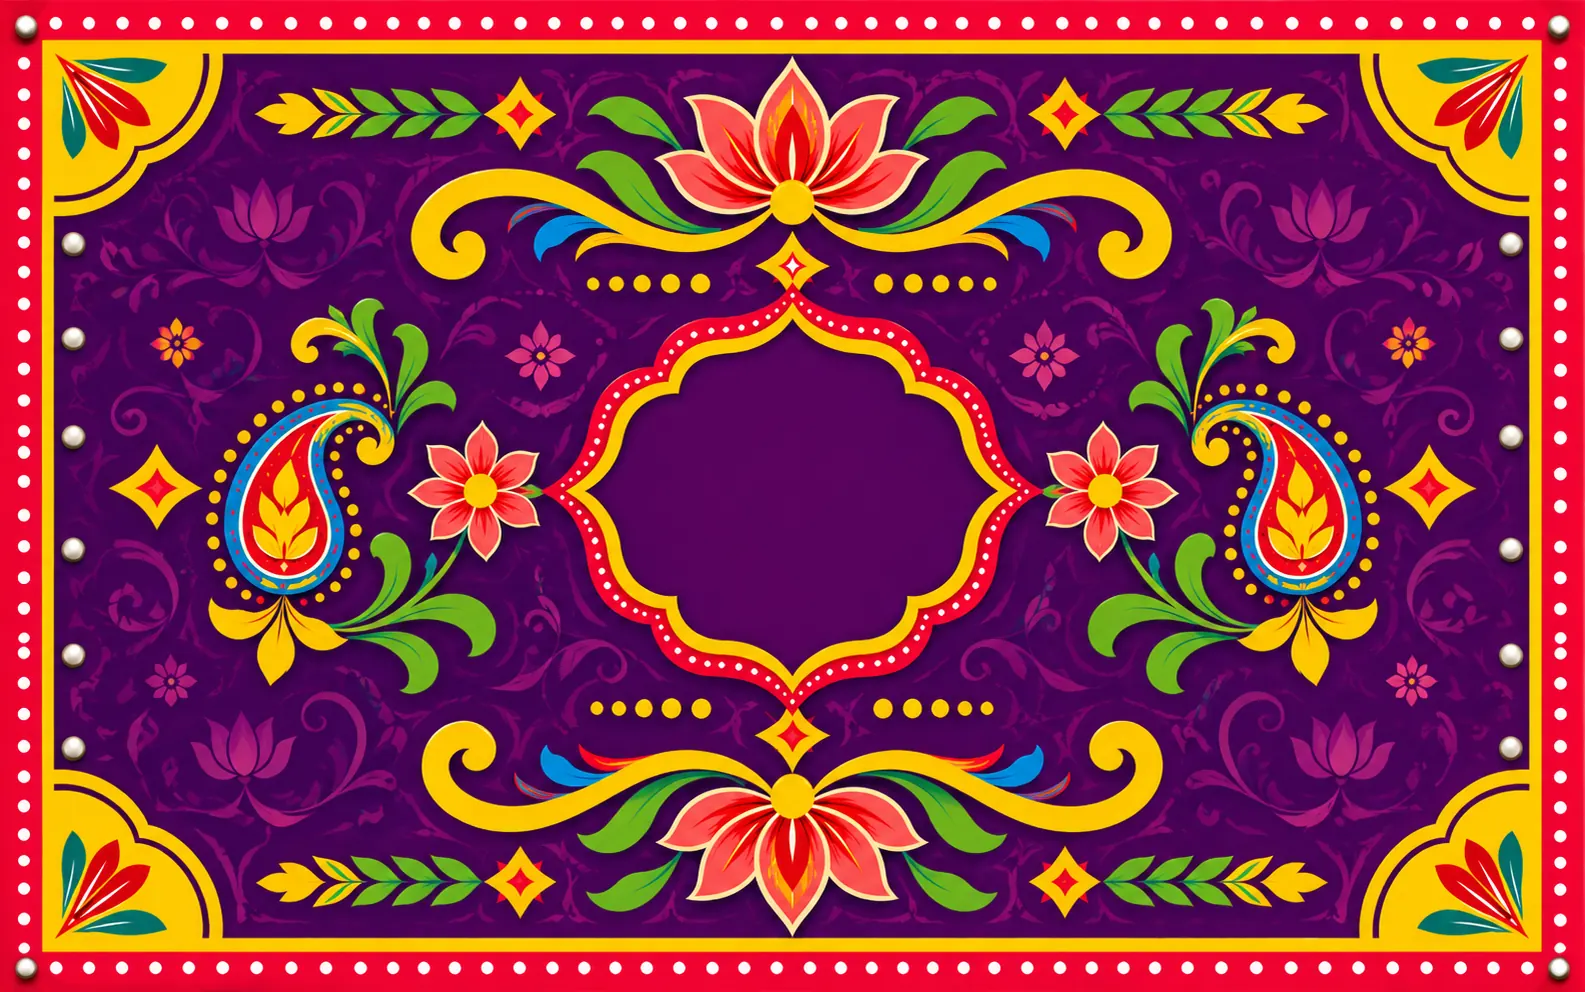
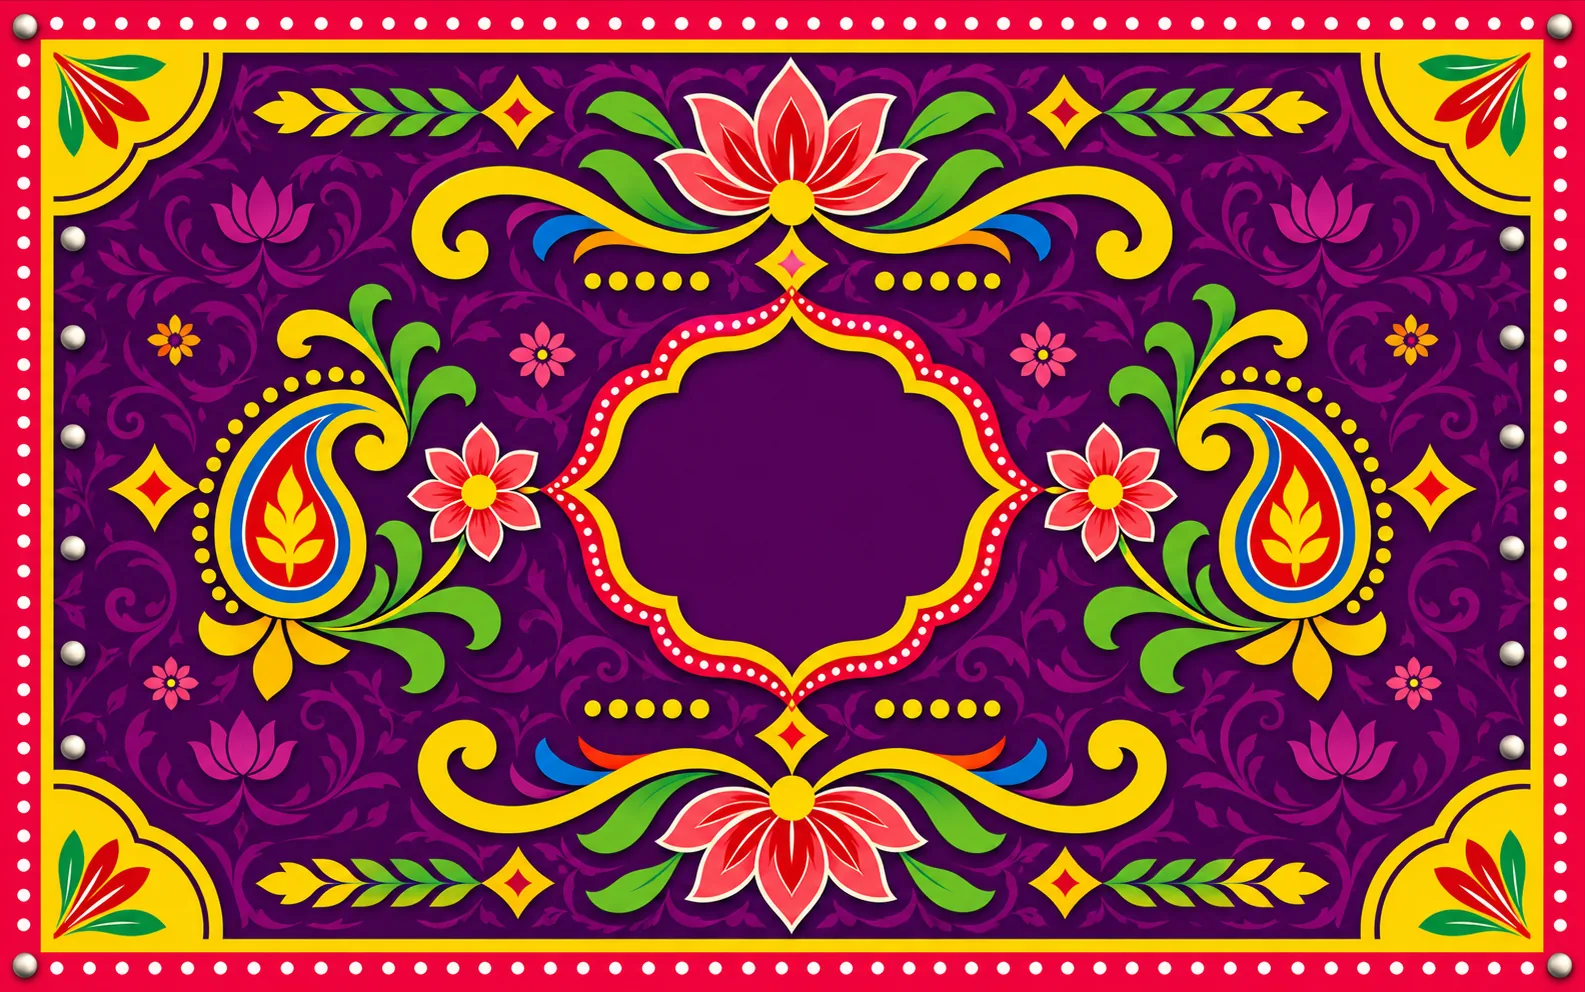
Loader: new desktop artwork (Desktop Loader.png), frame outline re-traced
Same animation; the colour waves and the reveal follow the new frame's
opening.

diff --git a/src/components/ui/preloaderFrames.ts b/src/components/ui/preloaderFrames.ts
@@ -5,7 +5,7 @@
 // vector clipping draws reliably every frame, where an image mask sometimes
 // fails to render.
 export const FRAME_OUTLINES = {
-  wide: "M792 319 L787 324 L787 325 L775 336 L759 345 L743 350 L709 355 L696 361 L693 363 L686 371 L685 374 L682 378 L678 391 L656 396 L642 404 L633 413 L626 425 L626 427 L624 431 L624 434 L623 435 L623 438 L622 439 L622 442 L621 443 L618 454 L613 464 L607 472 L597 482 L586 490 L588 493 L594 497 L602 505 L613 521 L619 537 L620 548 L621 549 L621 552 L622 553 L624 563 L632 577 L640 585 L654 593 L665 596 L676 597 L676 601 L677 602 L678 610 L683 620 L685 623 L695 632 L705 637 L716 640 L744 643 L757 647 L767 652 L777 659 L788 670 L792 676 L794 676 L796 672 L805 662 L814 655 L829 647 L843 643 L869 640 L880 637 L890 632 L902 621 L907 610 L907 607 L909 602 L909 597 L924 595 L930 593 L943 586 L954 575 L962 560 L962 557 L964 552 L964 548 L965 547 L965 542 L966 541 L967 532 L974 516 L981 506 L988 499 L998 491 L998 490 L993 486 L974 466 L966 450 L960 426 L954 415 L947 407 L940 402 L928 396 L918 393 L907 391 L904 379 L899 370 L891 362 L886 359 L872 354 L842 350 L824 344 L818 341 L806 332 L794 319 Z",
+  wide: "M790 317 L786 324 L775 335 L766 341 L750 347 L739 349 L723 350 L709 353 L696 359 L687 367 L683 373 L681 377 L681 379 L679 382 L679 385 L678 386 L677 391 L667 392 L652 396 L644 400 L637 405 L630 413 L623 426 L623 429 L620 437 L620 441 L619 442 L615 456 L609 467 L594 483 L585 489 L585 491 L596 498 L604 506 L610 515 L618 536 L620 551 L621 552 L621 555 L622 556 L622 559 L624 562 L624 564 L631 576 L639 584 L645 588 L656 593 L676 597 L678 607 L682 617 L686 623 L696 632 L710 638 L718 640 L744 643 L762 649 L768 652 L776 658 L785 667 L790 674 L790 676 L794 676 L794 674 L798 668 L809 657 L816 652 L824 648 L840 643 L866 640 L880 636 L886 633 L892 629 L900 620 L905 609 L905 606 L907 601 L907 597 L916 596 L928 593 L937 589 L946 583 L954 574 L961 561 L962 555 L963 554 L963 550 L964 549 L964 545 L965 544 L965 540 L966 539 L966 535 L967 534 L970 523 L975 513 L980 506 L989 497 L998 491 L998 488 L984 478 L974 466 L967 452 L959 423 L952 411 L945 404 L941 401 L929 395 L917 392 L906 391 L905 390 L903 380 L896 367 L890 361 L882 356 L875 353 L867 351 L838 348 L822 343 L810 336 L797 323 L793 317 Z",
   tablet: "M511 589 L508 596 L504 602 L492 614 L479 622 L461 628 L426 633 L414 636 L400 643 L396 646 L390 652 L385 659 L380 670 L379 675 L375 680 L349 689 L343 692 L331 701 L331 702 L326 707 L319 719 L319 721 L316 726 L316 728 L315 729 L313 737 L311 740 L310 745 L308 748 L308 750 L300 764 L281 784 L271 790 L271 791 L285 799 L297 811 L304 821 L309 832 L309 834 L311 837 L312 843 L315 850 L315 853 L316 854 L318 862 L324 874 L332 884 L343 892 L349 895 L374 903 L379 908 L382 920 L389 933 L403 946 L418 953 L466 962 L477 966 L488 972 L492 975 L505 989 L506 992 L508 994 L508 996 L510 999 L511 1003 L513 1003 L515 999 L515 997 L522 985 L532 975 L539 970 L552 964 L562 961 L588 957 L606 953 L621 946 L628 941 L635 933 L638 927 L640 925 L641 921 L643 918 L645 908 L650 903 L677 894 L687 888 L694 882 L702 871 L705 865 L715 832 L722 818 L727 811 L738 800 L752 791 L752 789 L743 784 L736 778 L722 761 L716 750 L716 748 L712 740 L707 723 L702 713 L695 703 L691 699 L681 692 L675 689 L652 682 L649 680 L646 677 L643 667 L635 653 L627 645 L621 641 L610 636 L598 633 L563 628 L543 621 L532 614 L520 602 L516 596 L516 594 L513 589 Z",
   phone: "M470 628 L457 642 L442 651 L428 656 L391 662 L375 669 L368 674 L361 682 L354 695 L350 713 L349 714 L333 718 L321 724 L310 733 L305 740 L300 750 L298 760 L297 761 L297 765 L296 766 L293 777 L288 786 L279 798 L271 806 L254 818 L254 820 L255 821 L263 826 L277 840 L287 855 L293 870 L294 879 L295 880 L295 885 L296 886 L298 897 L307 915 L317 926 L331 935 L341 939 L353 942 L353 948 L354 949 L356 959 L361 969 L370 980 L377 985 L390 991 L402 994 L428 998 L442 1003 L450 1007 L457 1012 L467 1022 L470 1027 L472 1027 L476 1021 L484 1013 L494 1006 L500 1003 L516 998 L536 995 L554 991 L563 987 L572 981 L582 970 L588 958 L591 942 L606 938 L613 935 L624 928 L635 917 L644 901 L646 891 L647 890 L647 887 L648 886 L648 881 L649 880 L650 870 L657 853 L665 841 L679 827 L691 819 L688 816 L674 807 L663 796 L657 788 L650 775 L650 773 L648 769 L648 766 L647 765 L647 762 L646 761 L646 757 L645 756 L644 750 L637 737 L627 727 L619 722 L607 717 L594 714 L592 712 L592 707 L591 706 L591 703 L590 702 L590 699 L589 698 L588 693 L580 679 L575 674 L568 669 L555 663 L542 660 L514 656 L500 651 L492 647 L485 642 L472 628 Z",
 } as const;

diff --git a/src/components/ui/Preloader.tsx b/src/components/ui/Preloader.tsx
@@ -83,7 +83,7 @@ function collectImageUrls(): string[] {
 type Geom = { key: keyof typeof FRAME_OUTLINES; bg: string; w: number; h: number; top: number; bottom: number; x0: number; x1: number; cx: number; cy: number; r: number };
 const GEOMS: Record<keyof typeof FRAME_OUTLINES, Geom> = {
   // Ornate Purple Truck-Art Medallion: laptops, desktops, landscape tablets
-  wide: { key: "wide", bg: "/images/loader-bg.webp", w: 1585, h: 992, top: 318, bottom: 677, x0: 560, x1: 1025, cx: 792, cy: 498, r: 154 },
+  wide: { key: "wide", bg: "/images/loader-bg.webp", w: 1585, h: 992, top: 317, bottom: 676, x0: 585, x1: 998, cx: 791, cy: 496, r: 154 },
   // "tablet loader": portrait tablets
   tablet: { key: "tablet", bg: "/images/loader-bg-tablet.webp", w: 1024, h: 1536, top: 589, bottom: 1005, x0: 269, x1: 755, cx: 512, cy: 797, r: 170 },
   // "mobile laoder": phones
